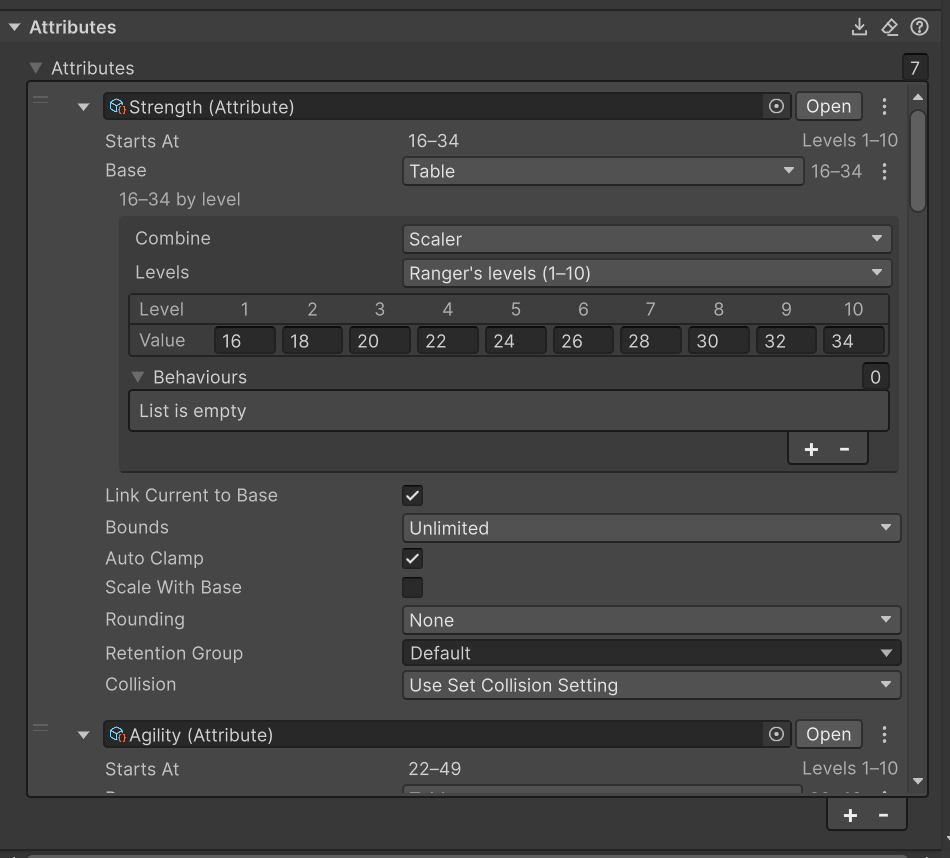
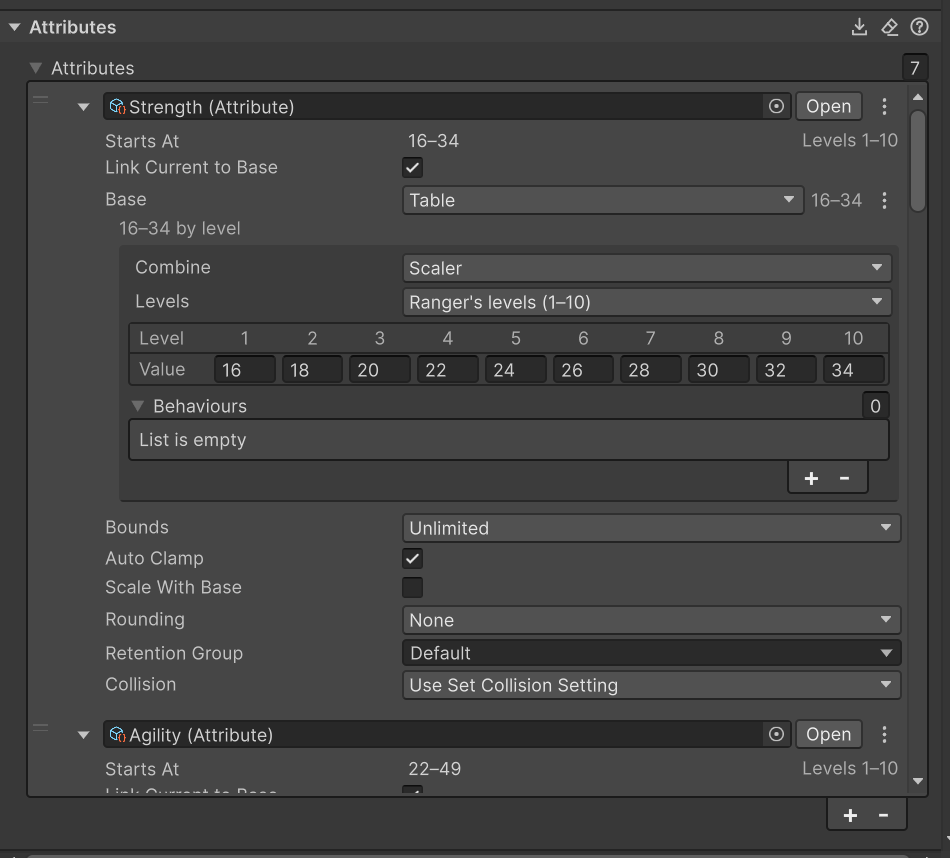
Site from PlayForge 7510f0ec

diff --git a/api/FarEmerald.PlayForge.Editor.AttributeSetElementDrawer.html b/api/FarEmerald.PlayForge.Editor.AttributeSetElementDrawer.html
@@ -6,7 +6,7 @@
       <meta name="viewport" content="width=device-width, initial-scale=1.0">
       <meta name="title" content="Class AttributeSetElementDrawer | PlayForge ">
       
-      <meta name="description" content="An attribute set element: a foldout row with the attribute, and while it&#39;s folded one line of what it starts at; open, what it starts at at each level, then Base and Current, each a magnitude field as an effect&#39;s are, then its bounds, its constraints, its retention group and its collision.  What it starts at is worked out by the runtime (): a stand-in entity at each level of the set it&#39;s previewed in, with the set&#39;s sub-sets. A note says when another element&#39;s value is the one used, and a message when a scaler reads an attribute the set doesn&#39;t give. The element showed its magnitudes as a formula, as &quot;10 + Level&quot;, and Current and Base one at a time on a switch.  It writes nothing while it draws, and only a typed magnitude is kept within the bounds, as part of the same edit.">
+      <meta name="description" content="An attribute set element: a foldout row with the attribute and the element&#39;s menu, and while it&#39;s folded one line of what it starts at; open, what it starts at at each level, then Link Current to Base, Current, which the link hides, and Base, each side a magnitude field as an effect&#39;s are, then its bounds, its constraints, its retention group and its collision.  What it starts at is worked out by the runtime (): a stand-in entity at each level of the set it&#39;s previewed in, with the set&#39;s sub-sets. A note says when another element&#39;s value is the one used, and a message when a scaler reads an attribute the set doesn&#39;t give. The element showed its magnitudes as a formula, as &quot;10 + Level&quot;, and Current and Base one at a time on a switch.  It writes nothing while it draws, and only a typed magnitude is kept within the bounds, as part of the same edit.">
       <link rel="icon" href="../images/logo.svg">
       <link rel="stylesheet" href="../public/docfx.min.css">
       <link rel="stylesheet" href="../public/main.css">
@@ -97,9 +97,10 @@ Class AttributeSetElementDrawer
   <dl><dt>Assembly</dt><dd>FarEmerald.PlayForge.Editor.dll</dd></dl>
   </div>
 
-  <div class="markdown summary"><p>An attribute set element: a foldout row with the attribute, and while it's folded
-one line of what it starts at; open, what it starts at at each level, then Base and Current, each a magnitude field
-as an effect's are, then its bounds, its constraints, its retention group and its collision.</p>
+  <div class="markdown summary"><p>An attribute set element: a foldout row with the attribute and the element's menu, and while it's folded one line
+of what it starts at; open, what it starts at at each level, then Link Current to Base, Current, which the link
+hides, and Base, each side a magnitude field as an effect's are, then its bounds, its constraints, its retention
+group and its collision.</p>
 <p>
 What it starts at is worked out by the runtime (<a class="xref" href="FarEmerald.PlayForge.Editor.AttributeStartValues.html">AttributeStartValues</a>): a stand-in entity at each level
 of the set it's previewed in, with the set's sub-sets. A note says when another element's value is the one used, and

diff --git a/guides/attribute-sets/attributes.html b/guides/attribute-sets/attributes.html
@@ -108,16 +108,16 @@ line: what its attribute starts at, and its range.</p>
 <td>What the attribute starts at, at each of the set's levels.</td>
 </tr>
 <tr>
-<td><strong>Base</strong></td>
-<td>A magnitude field, as an effect's are: a number, or a cached scaler with how the number combines with it.</td>
-</tr>
-<tr>
 <td><strong>Link Current to Base</strong></td>
-<td>Current takes Base's number and scaler, and its own field hides.</td>
+<td>Current takes Base's number and scaler, and its own field, under this, hides.</td>
 </tr>
 <tr>
 <td><strong>Current</strong></td>
-<td>A magnitude field, as Base is.</td>
+<td>A magnitude field, as an effect's are: a number, or a cached scaler with how the number combines with it.</td>
+</tr>
+<tr>
+<td><strong>Base</strong></td>
+<td>A magnitude field, as Current is.</td>
 </tr>
 <tr>
 <td><strong>Bounds</strong></td>
@@ -153,7 +153,7 @@ Health = 200 + 20 × Strength: a Fixed Value of 200 and an Attribute Backed of 2
 <li>The list's <strong>+</strong> adds a new element, each setting at its default. It doesn't copy the last one.</li>
 <li>An element's menu, at the end of its row, and a right-click on the row, have <strong>Duplicate</strong>: a copy goes in after
 it, with scalers of its own, so an edit to one leaves the other.</li>
-<li>The Base and Current fields' menus each copy the other side's number and scaler into the field.</li>
+<li>The Current and Base fields' menus each copy the other side's number and scaler into the field.</li>
 <li>Rounding applies after the Bounds, each time the value changes. So it can make a change bigger or smaller than its
 effect asked for.</li>
 </ul>

diff --git a/api/FarEmerald.PlayForge.Editor.html b/api/FarEmerald.PlayForge.Editor.html
@@ -306,9 +306,10 @@ Local Data and Used By. A collapsed section shows one line, and the inspector ta
     </dl>
     <dl class="jumplist">
       <dt><a class="xref" href="FarEmerald.PlayForge.Editor.AttributeSetElementDrawer.html">AttributeSetElementDrawer</a></dt>
-      <dd><p>An attribute set element: a foldout row with the attribute, and while it's folded
-one line of what it starts at; open, what it starts at at each level, then Base and Current, each a magnitude field
-as an effect's are, then its bounds, its constraints, its retention group and its collision.</p>
+      <dd><p>An attribute set element: a foldout row with the attribute and the element's menu, and while it's folded one line
+of what it starts at; open, what it starts at at each level, then Link Current to Base, Current, which the link
+hides, and Base, each side a magnitude field as an effect's are, then its bounds, its constraints, its retention
+group and its collision.</p>
 <p>
 What it starts at is worked out by the runtime (<a class="xref" href="FarEmerald.PlayForge.Editor.AttributeStartValues.html">AttributeStartValues</a>): a stand-in entity at each level
 of the set it's previewed in, with the set's sub-sets. A note says when another element's value is the one used, and

diff --git a/guides/editor/fields-and-drawers/attribute-and-entity-drawers.html b/guides/editor/fields-and-drawers/attribute-and-entity-drawers.html
@@ -98,7 +98,7 @@
 <tbody>
 <tr>
 <td><a class="xref" href="../../../api/FarEmerald.PlayForge.Editor.AttributeSetElementDrawer.html"><code>AttributeSetElementDrawer</code></a></td>
-<td>An attribute set element: a row of its attribute, folding to a line of what it starts at. Open, it shows what it starts at at each level, its Base and Current, its bounds, its constraints, its retention group and its collision. A typed magnitude is kept within its bounds.</td>
+<td>An attribute set element: a row of its attribute, folding to a line of what it starts at. Open, it shows what it starts at at each level, Link Current to Base, its Current and Base, its bounds, its constraints, its retention group and its collision. A typed magnitude is kept within its bounds.</td>
 </tr>
 <tr>
 <td><a class="xref" href="../../../api/FarEmerald.PlayForge.Editor.AttributeOverflowDataDrawer.html"><code>AttributeOverflowDataDrawer</code></a></td>

diff --git a/guides/editor/the-debugger/entities.html b/guides/editor/the-debugger/entities.html
@@ -137,7 +137,7 @@ and <strong>Open Asset</strong>, which opens its asset in a window of its own.</
 </thead>
 <tbody>
 <tr>
-<td><strong>Base</strong>, <strong>Current</strong></td>
+<td><strong>Current</strong>, <strong>Base</strong></td>
 <td>The attribute's values. The current's tooltip breaks it down by retention group.</td>
 </tr>
 <tr>
@@ -149,7 +149,7 @@ and <strong>Open Asset</strong>, which opens its asset in a window of its own.</
 <p>To set an attribute's value:</p>
 <ol>
 <li>Select the attribute's row.</li>
-<li>Type the value in the foot row's <strong>Base</strong> or <strong>Current</strong>.</li>
+<li>Type the value in the foot row's <strong>Current</strong> or <strong>Base</strong>.</li>
 <li>Press Enter.</li>
 </ol>
 <p>The change is one the entity makes on its own account, an unworkable one

diff --git a/guides/getting-started/quickstart-a-damage-ability-in-10-minutes.html b/guides/getting-started/quickstart-a-damage-ability-in-10-minutes.html
@@ -95,7 +95,7 @@ numbers, rules and the Tag Library.</p>
 <li><strong>Attribute</strong>: create an <a class="xref" href="../../api/FarEmerald.PlayForge.Attribute.html"><code>Attribute</code></a> asset named &quot;Health&quot;.</li>
 <li><strong>AttributeSet</strong>: create a set, and add an element for Health:
 <ul>
-<li>Base/Current <code>100</code>;</li>
+<li>Current/Base <code>100</code>;</li>
 <li>Overflow policy <a class="xref" href="../../api/FarEmerald.PlayForge.EAttributeOverflowPolicy.html#FarEmerald_PlayForge_EAttributeOverflowPolicy_ZeroToBase"><code>ZeroToBase</code></a>, so Current can never exceed Base (pool-style).</li>
 </ul>
 </li>

diff --git a/api/FarEmerald.PlayForge.CachedAttributeScaler.html b/api/FarEmerald.PlayForge.CachedAttributeScaler.html
@@ -320,7 +320,7 @@ public Attribute CaptureAttribute</code></pre>
   <div class="markdown level1 conceptual"></div>
 
   <div class="codewrapper">
-    <pre><code class="lang-csharp hljs">[Tooltip(&quot;Use base or current attribute value (used when projecting to a single float)&quot;)]
+    <pre><code class="lang-csharp hljs">[Tooltip(&quot;What of it it reads where one number is wanted: its current value, its base, what&#39;s missing of it (base − current), or its share of its base (current &#247; base)&quot;)]
 public EAttributeTargetBinary CaptureWhat</code></pre>
   </div>
 

diff --git a/guides/scalers/a-magnitude-field/table.html b/guides/scalers/a-magnitude-field/table.html
@@ -109,7 +109,8 @@
 <ul>
 <li>Level 1 reads the first value, level 4 the 4th, and a level past the last reads the last, as Laguna Blade's 450, 600
 and 750.</li>
-<li>The range it gives shows beside the kind, as &quot;6–8 s&quot;, or &quot;-25 to -10&quot; where it goes below 0.</li>
+<li>The range it gives shows beside the kind, from its first level's value to its last's, as &quot;6–8 s&quot;, or &quot;-10 to -25&quot;
+where it goes below 0.</li>
 <li>Its values sit in a row under it, with no curve.</li>
 </ul>
 
